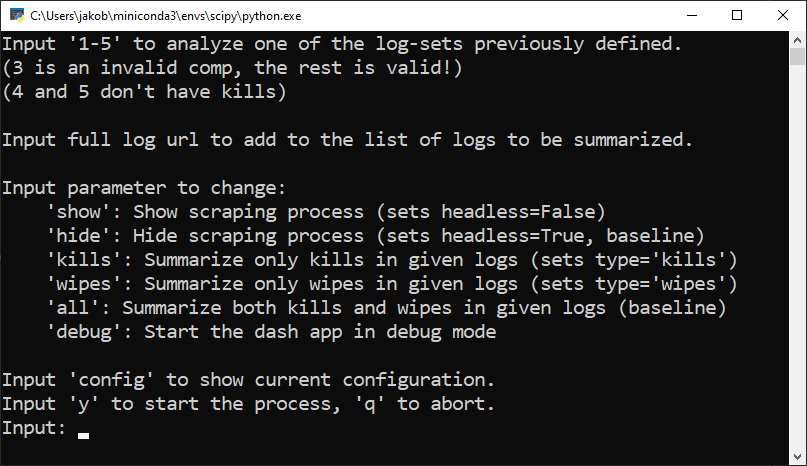
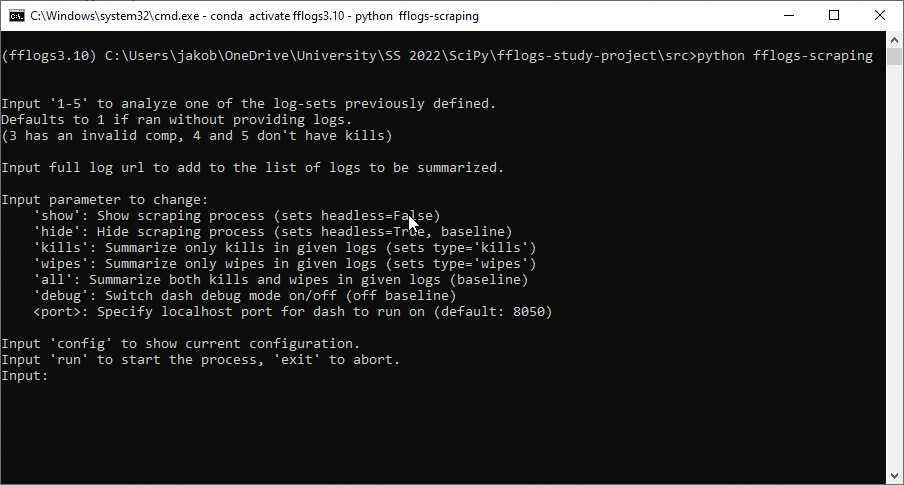
updated example

Changed region(s): [[0.0, 0.3906, 0.9294, 0.9313], [0.0, 0.0, 1.0, 1.0], [0.0929, 0.9313, 0.1239, 0.9614]]

diff --git a/README.md b/README.md
@@ -118,7 +118,7 @@ Geckodriver needs to be installed for the Firefox Webdriver to work. On Windows,
 After having installed geckodriver, continue as described in [Windows](#windows).
 
 <a name="expl"></a>
-## Example (screenshots outdated)
+## Example
 
 For the example we will look at the predefined logs 2. The set consists of 2 logs that have boss kills in them ([1](https://www.fflogs.com/reports/hacvwXKb8mFYrAdx), [2](https://www.fflogs.com/reports/LnjBh2tfZRyv8rpD)).
 
@@ -126,7 +126,7 @@ For the example we will look at the predefined logs 2. The set consists of 2 log
 ### User Input
 On run we are prompted with a user input:  
 <img src="docs/img/input_prompt.png" alt="User Input Prompt" width="600"/>  
-The available parameters should be explained sufficiently. Since we want to analyze boss kills from set 2 in this example, we input "2" and "kills". If you want to see the scraping process, you can input "show" and the webdriver will be visible.  "config" shows the parameters that will be returned. (Note: 'y' and 'q' in the screenshots have been replaced by 'run' and 'exit', respectively)
+The available parameters should be explained sufficiently. Since we want to analyze boss kills from set 2 in this example, we input "2" and "kills". If you want to see the scraping process, you can input "show" and the webdriver will be visible.  "config" shows the parameters that will be returned. Input "run" to start the scraping.
 
 <img src="docs/img/first_input.gif" alt="Example User Input" width="600"/>  
 
